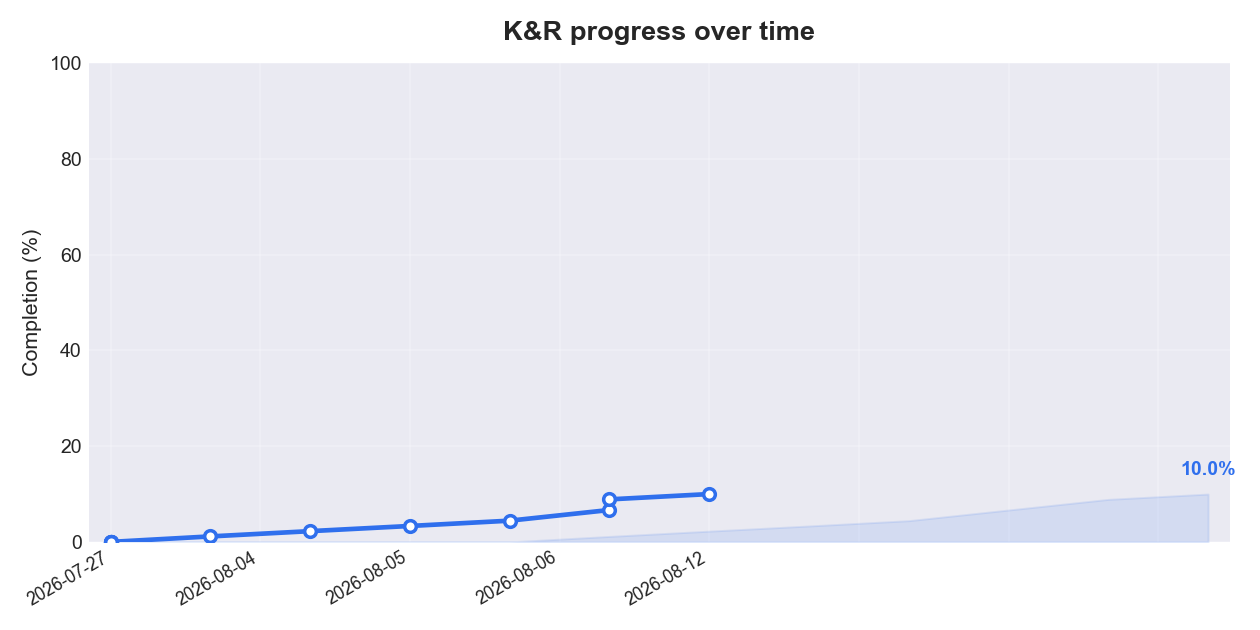
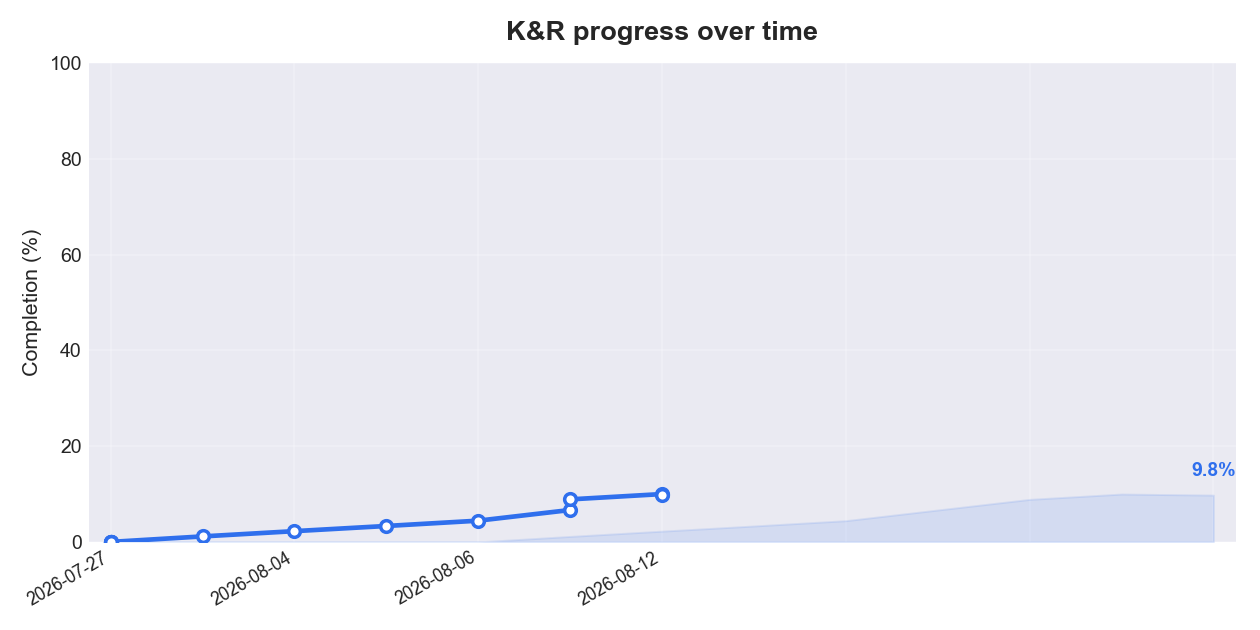
Scaffold folder for 1.5

diff --git a/TRACKER.md b/TRACKER.md
@@ -6,13 +6,13 @@ _Last updated: 2026-08-12_
 
 ## Overall
 
-**10.0% complete** `[##----------------------]`
+**9.8% complete** `[##----------------------]`
 
 | Metric | Done | Total |
 | --- | --- | --- |
 | Section notes | 4 | 77 |
 | Chapter summaries | 0 | 8 |
-| Exercises solved | 5 | 5 |
+| Exercises solved | 5 | 7 |
 
 ## Progress over time
 
@@ -22,7 +22,7 @@ _Last updated: 2026-08-12_
 
 | Chapter | Notes | Summary | Exercises |
 | --- | :---: | :---: | :---: |
-| 1. A Tutorial Introduction | 4 / 10 | - | 5 / 5 |
+| 1. A Tutorial Introduction | 4 / 10 | - | 5 / 7 |
 | 2. Types, Operators and Expressions | 0 / 12 | - | 0 / 0 |
 | 3. Control Flow | 0 / 8 | - | 0 / 0 |
 | 4. Functions and Program Structure | 0 / 11 | - | 0 / 0 |
@@ -43,7 +43,7 @@ _Last updated: 2026-08-12_
 | 1.2 | Variables and Arithmetic Expressions | yes | - | 2 / 2 |
 | 1.3 | The for statement | yes | - | 1 / 1 |
 | 1.4 | Symbolic Constants | yes | - | 0 / 0 |
-| 1.5 | Character Input and Output | - | - | 0 / 0 |
+| 1.5 | Character Input and Output | no | - | 0 / 2 |
 | 1.6 | Arrays | - | - | 0 / 0 |
 | 1.7 | Functions | - | - | 0 / 0 |
 | 1.8 | Arguments - Call by Value | - | - | 0 / 0 |

diff --git a/ch01-tutorial-intro/1.5-character-input-output/notes-1.5.md b/ch01-tutorial-intro/1.5-character-input-output/notes-1.5.md
@@ -1,0 +1,30 @@
+<!-- placeholder:notes -->
+<!-- This file was scaffolded but not written yet. Paste the section text and Claude will replace this whole file with real notes. -->
+
+# Notes: x.y Section Title
+
+*Status: not written yet. Paste the K&R text for this section to fill it in.*
+
+## What this section is about
+
+One or two sentences on what the section covers and why it matters.
+
+## Key ideas
+
+Explain the main points in plain language. Keep it skimmable. Use small code
+snippets where they make an idea clearer, like this:
+
+```c
+printf("hello, world\n");
+```
+
+Break ideas into short paragraphs or bullet points. You do not need fixed
+headers for every section, just enough structure that it reads well.
+
+## Gotchas
+
+Anything easy to get wrong, surprising behavior, or a detail worth remembering.
+
+## Quick recap
+
+A short wrap up of the one or two things to actually remember from this section.

diff --git a/ch01-tutorial-intro/1.5-character-input-output/exercises/exercises-1.5.md b/ch01-tutorial-intro/1.5-character-input-output/exercises/exercises-1.5.md
@@ -1,0 +1,22 @@
+# Exercises: x.y Section Title
+
+These are the exercises found in the section text. Check one off when you have a
+working solution file for it in this folder.
+
+Solution files go next to this file and are named like `ex1-3a.c`, `ex1-3b.c`
+(that is `ex<chapter>-<section><letter>.c`).
+
+Total exercises: N
+
+- [ ] **Exercise x-y (a).** Full prompt text of the first exercise goes here.
+- [ ] **Exercise x-y (b).** Full prompt text of the second exercise goes here.
+
+<!--
+NOTES FOR CLAUDE:
+- One checkbox line per exercise, always starting with "- [ ]".
+- Copy the real prompt wording from the pasted text. Do not shorten it so much
+  that the task becomes unclear.
+- The letter (a, b, c ...) matches the order the exercises appear in the text.
+- The tracker counts total exercises by counting these checkbox lines, and
+  counts solved exercises by counting the .c files in this folder.
+-->
